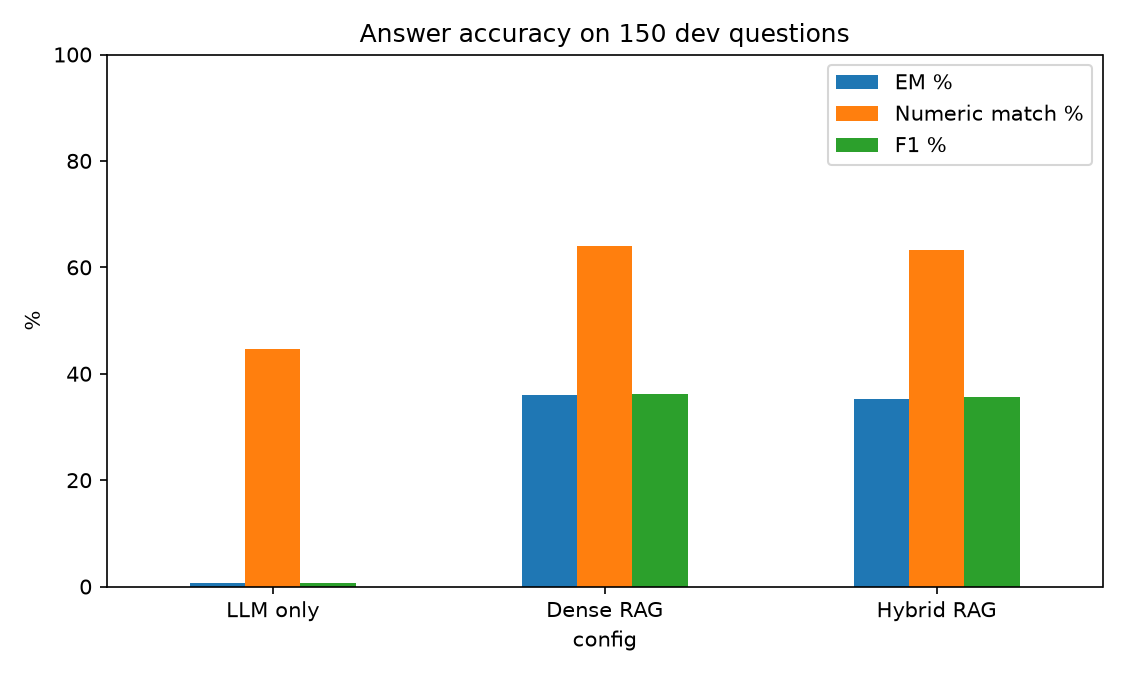
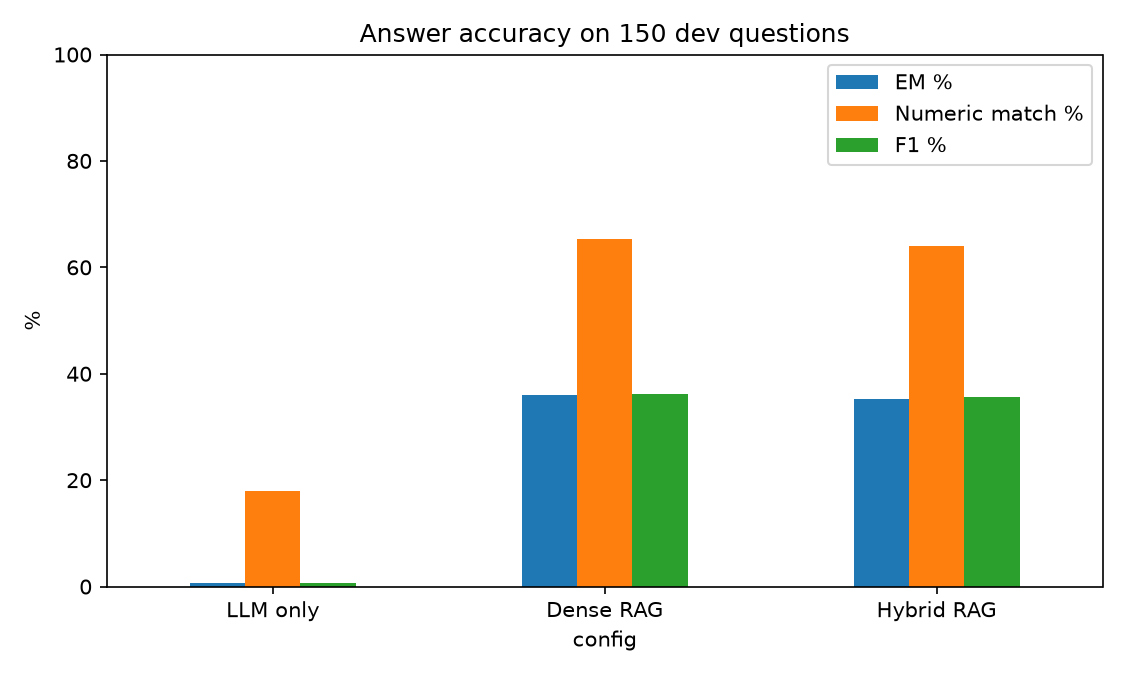
Step 9.1: fix numeric match tolerance, add abstention breakdown

Changed region(s): [[0.2178, 0.4978, 0.28, 0.7467], [0.8089, 0.3422, 0.8711, 0.3733], [0.4978, 0.3422, 0.56, 0.3733]]

diff --git a/src/eval_answers.py b/src/eval_answers.py
@@ -43,23 +43,20 @@ def numeric_match(pred, gold_ans, exe_ans):
     p, g = parse_num(pred), parse_num(gold_ans)
     if p is None or g is None:
         return norm(pred) == norm(gold_ans)       # non-numeric gold, e.g. yes/no
-    pv, pd_, pp = p
+    pv, _, pp = p
     gv, gd, gp = g
     pct = pp or gp
-    targets = [(gv, min(pd_, gd))]
+    tol = 0.5 * 10 ** (-gd) + 1e-9               # precision of the GOLD answer
+    targets = [gv]
     try:
         e = float(exe_ans)
-        targets.append((e, pd_))
+        targets.append(e)
         if pct:
-            targets.append((e * 100, pd_))
+            targets.append(e * 100)
     except (TypeError, ValueError):
         pass
     scales = [1, 100, 0.01] if pct else [1]
-    for sc in scales:
-        for tv, d in targets:
-            if abs(pv * sc - tv) <= 0.5 * 10 ** (-d) + 1e-9:
-                return True
-    return False
+    return any(abs(pv * sc - tv) <= tol for sc in scales for tv in targets)
 
 
 def token_f1(pred, gold):
@@ -158,6 +155,19 @@ for _, r in bad.iterrows():
           "| evidence fully retrieved:", bool(r["hybrid_rag_full_hit"]))
     print()
 
+# ---------- abstention breakdown ----------
+print("\n=== Abstention breakdown (RAG configurations) ===")
+for m in ["dense_rag", "hybrid_rag"]:
+    ans = df[df[f"{m}_abstain"] == 0]
+    print(f"{NAMES[m]}: answered {len(ans)}/{len(df)}; "
+          f"numeric match among answered: {100 * ans[f'{m}_num'].mean():.1f}%")
+    miss = df[df[f"{m}_full_hit"] == 0]
+    if len(miss):
+        abst = int(miss[f"{m}_abstain"].sum())
+        wrong = int(((miss[f"{m}_abstain"] == 0) & (miss[f"{m}_num"] == 0)).sum())
+        right = int(miss[f"{m}_num"].sum())
+        print(f"   evidence missing (n={len(miss)}): abstained {abst}, "
+              f"answered wrong {wrong}, answered right {right}")
 # ---------- chart ----------
 ax = sdf.set_index("config")[["EM %", "Numeric match %", "F1 %"]].plot(
     kind="bar", figsize=(7.5, 4.5), rot=0)
